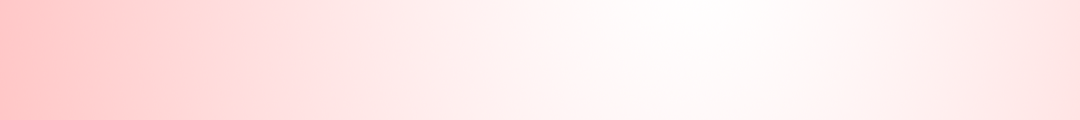
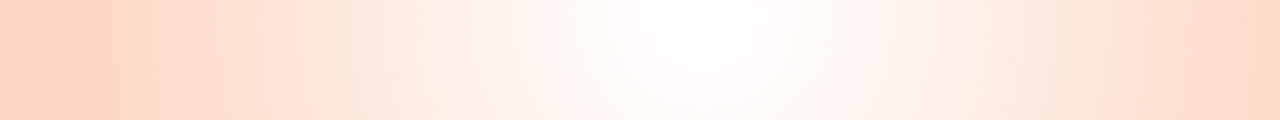
Editting some style issues

Changed region(s): [[0.8556, 0.0, 1.0, 1.0]]

diff --git a/app/webroot/css/main.css b/app/webroot/css/main.css
@@ -147,9 +147,16 @@ cols    1     2      3      4      5      6      7      8      9      10     11 
 px      68    160    252    344    436    528    620    712    804    896    988    1080    */
 
 body {
-	width: 1080px;
-	padding: 48px 0 48px 48px;
-	background: url('img/bg.jpg');
+	width: auto;
+	padding: 1em;
+	background: #fdd7c4;
+	/*background: url('img/bg.jpg');*/
+}
+
+#container {
+	min-height: 800px;
+	border: 1px solid #ccc;
+	background: #fff;
 }
 
 header {
@@ -158,16 +165,17 @@ header {
 	padding: 1em;
 	background: url('img/header.png');
 
-	box-shadow: 3px 2px 5px #aaa;
+	/*box-shadow: 3px 2px 5px #aaa;
 	-webkit-box-shadow: 3px 2px 5px #aaa;
-	-moz-box-shadow: 3px 2px 5px #aaa;
+	-moz-box-shadow: 3px 2px 5px #aaa;*/
 }
 
 article	{
-	background: #fff;
+	background: #fafafa;
 	margin-bottom: 1em;
 	overflow: hidden;
-	padding: 20px;
+	padding: 1em;
+	margin: 1em;
 
 	box-shadow: 3px 2px 5px #aaa;
 	-webkit-box-shadow: 3px 2px 5px #aaa;
@@ -185,6 +193,7 @@ a {
 nav {
 	width: 160px;
 	padding-right: 24px;
+	margin: 0 1em;
 	float: left;
 }
 
@@ -192,17 +201,22 @@ nav ul {
 	list-style-type: none; 
 }
 
+nav hr {
+	color: #c2352e;
+	background-color: #c2352e;
+	height: 1px;
+}
+
 nav li a {
 	display: block; 
 	text-align: center;
-	margin-bottom: 2px;
-	height: 30px; 
-	line-height: 30px; 
+	height: 35px; 
+	line-height: 35px; 
 	color: #000;
 	text-decoration: none; 
 	font-size: 100%; 
-	border: 1px solid #ccc;
-	background:  #fff;
+	/*border: 1px solid #ccc;*/
+	background: #fff;
 	-o-transition:color .2s ease-out, background .2s ease-in;
 	-ms-transition:color .2s ease-out, background .2s ease-in;
 	-moz-transition:color .2s ease-out, background .2s ease-in;
@@ -213,14 +227,14 @@ nav li a {
 nav ul ul li a {
 	display: block; 
 	text-align: center;
-	margin-bottom: 2px;
-	height: 30px; 
-	line-height: 30px;
+	/*margin: 0 -1em 0 1em;*/
+	height: 35px; 
+	line-height: 35px;
 	color: #000;
 	text-decoration: none; 
 	font-size: 80%; 
-	border: 1px solid #ccc;
-	background:  #f7f7f7;
+	/*border: 1px solid #ccc;*/
+	background: #fdd7c4;
 	-o-transition:color .2s ease-out, background .2s ease-in;
 	-ms-transition:color .2s ease-out, background .2s ease-in;
 	-moz-transition:color .2s ease-out, background .2s ease-in;
@@ -229,7 +243,7 @@ nav ul ul li a {
 }
 
 nav li a:hover {
-	background: #f7f7f7;
+	background: #fdd7c4;
 }
 
 nav ul ul li a:hover {
@@ -239,17 +253,17 @@ nav ul ul li a:hover {
 nav .active {
 	color: #c2352e;
 	text-decoration: underline;
+	background: #fff;
 }
 
 .navImage {
 	margin: 1em 0;
 	background: #fff;
-	border: 1px solid #ccc;
 	font-family: "Cataneo";
 	display: block; 
 	text-align: center;
 	color: #c2352e;
-	margin-top: 0.25em;
+	margin-top: 1em;
 }
 
 table td {
@@ -266,6 +280,7 @@ figure.right {
 	margin-left: 1em;
 	margin-bottom: 1em;
 	padding: 0.5em;
+	background: #fff;
 }
 
 figure.left {
@@ -277,6 +292,7 @@ figure.left {
 	margin-right: 1em;
 	margin-bottom: 1em;
 	padding: 0.5em;
+	background: #fff;
 }
 
 figure img {
@@ -304,8 +320,8 @@ px      68    160    252    344    436    528    620    712    */
 @media only screen and (min-width: 768px) and (max-width: 961px) {
 	
 	body {
-		width: 712px;
-		padding: 48px 28px 60px;
+		/*width: 712px;
+		padding: 48px 28px 60px;*/
 	}
 
 	figure.right {
@@ -329,8 +345,8 @@ px      68    160    252    */
 @media only screen and (max-width: 767px) {
 	
 	body {
-		width: 252px;
-		padding: 48px 34px 60px;
+		/*width: 252px;
+		padding: 48px 34px 60px;*/
 	}
 
 	figure.left {
@@ -338,6 +354,8 @@ px      68    160    252    */
 	}
 	figure.right {
 		width: 200px;
+		float:left;
+		margin-left: 0;
 	}
 
 	figure img {
@@ -359,8 +377,8 @@ px      68    160    252    344    436    */
 @media only screen and (min-width: 480px) and (max-width: 767px) {
 	
 	body {
-		width: 436px;
-		padding: 36px 22px 48px;
+		/*width: 436px;
+		padding: 36px 22px 48px;*/
 	}
 	
 }
